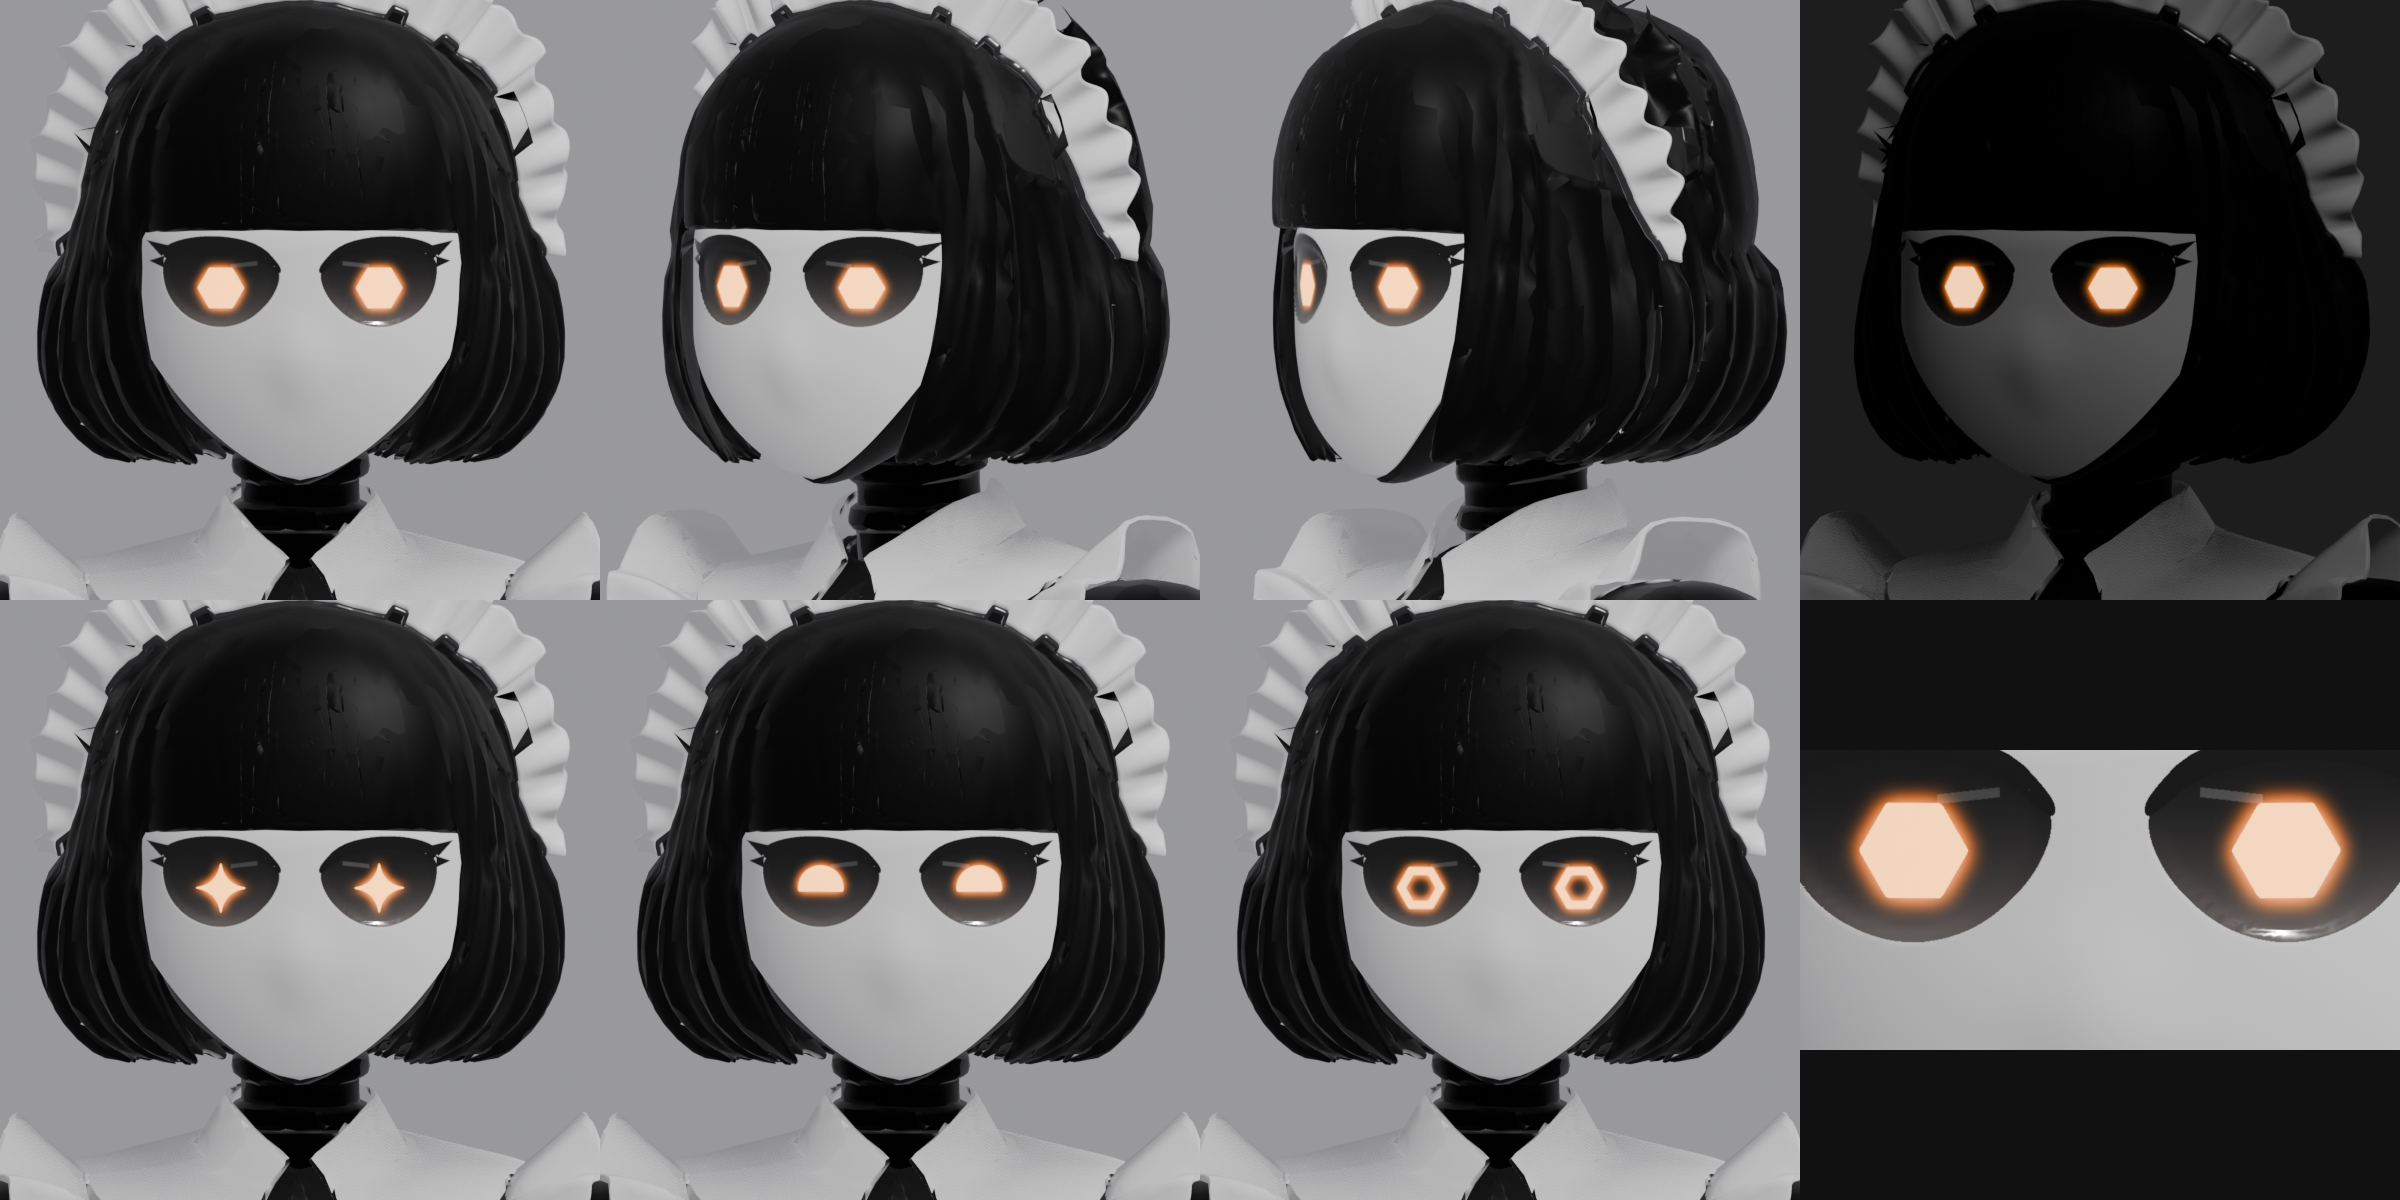
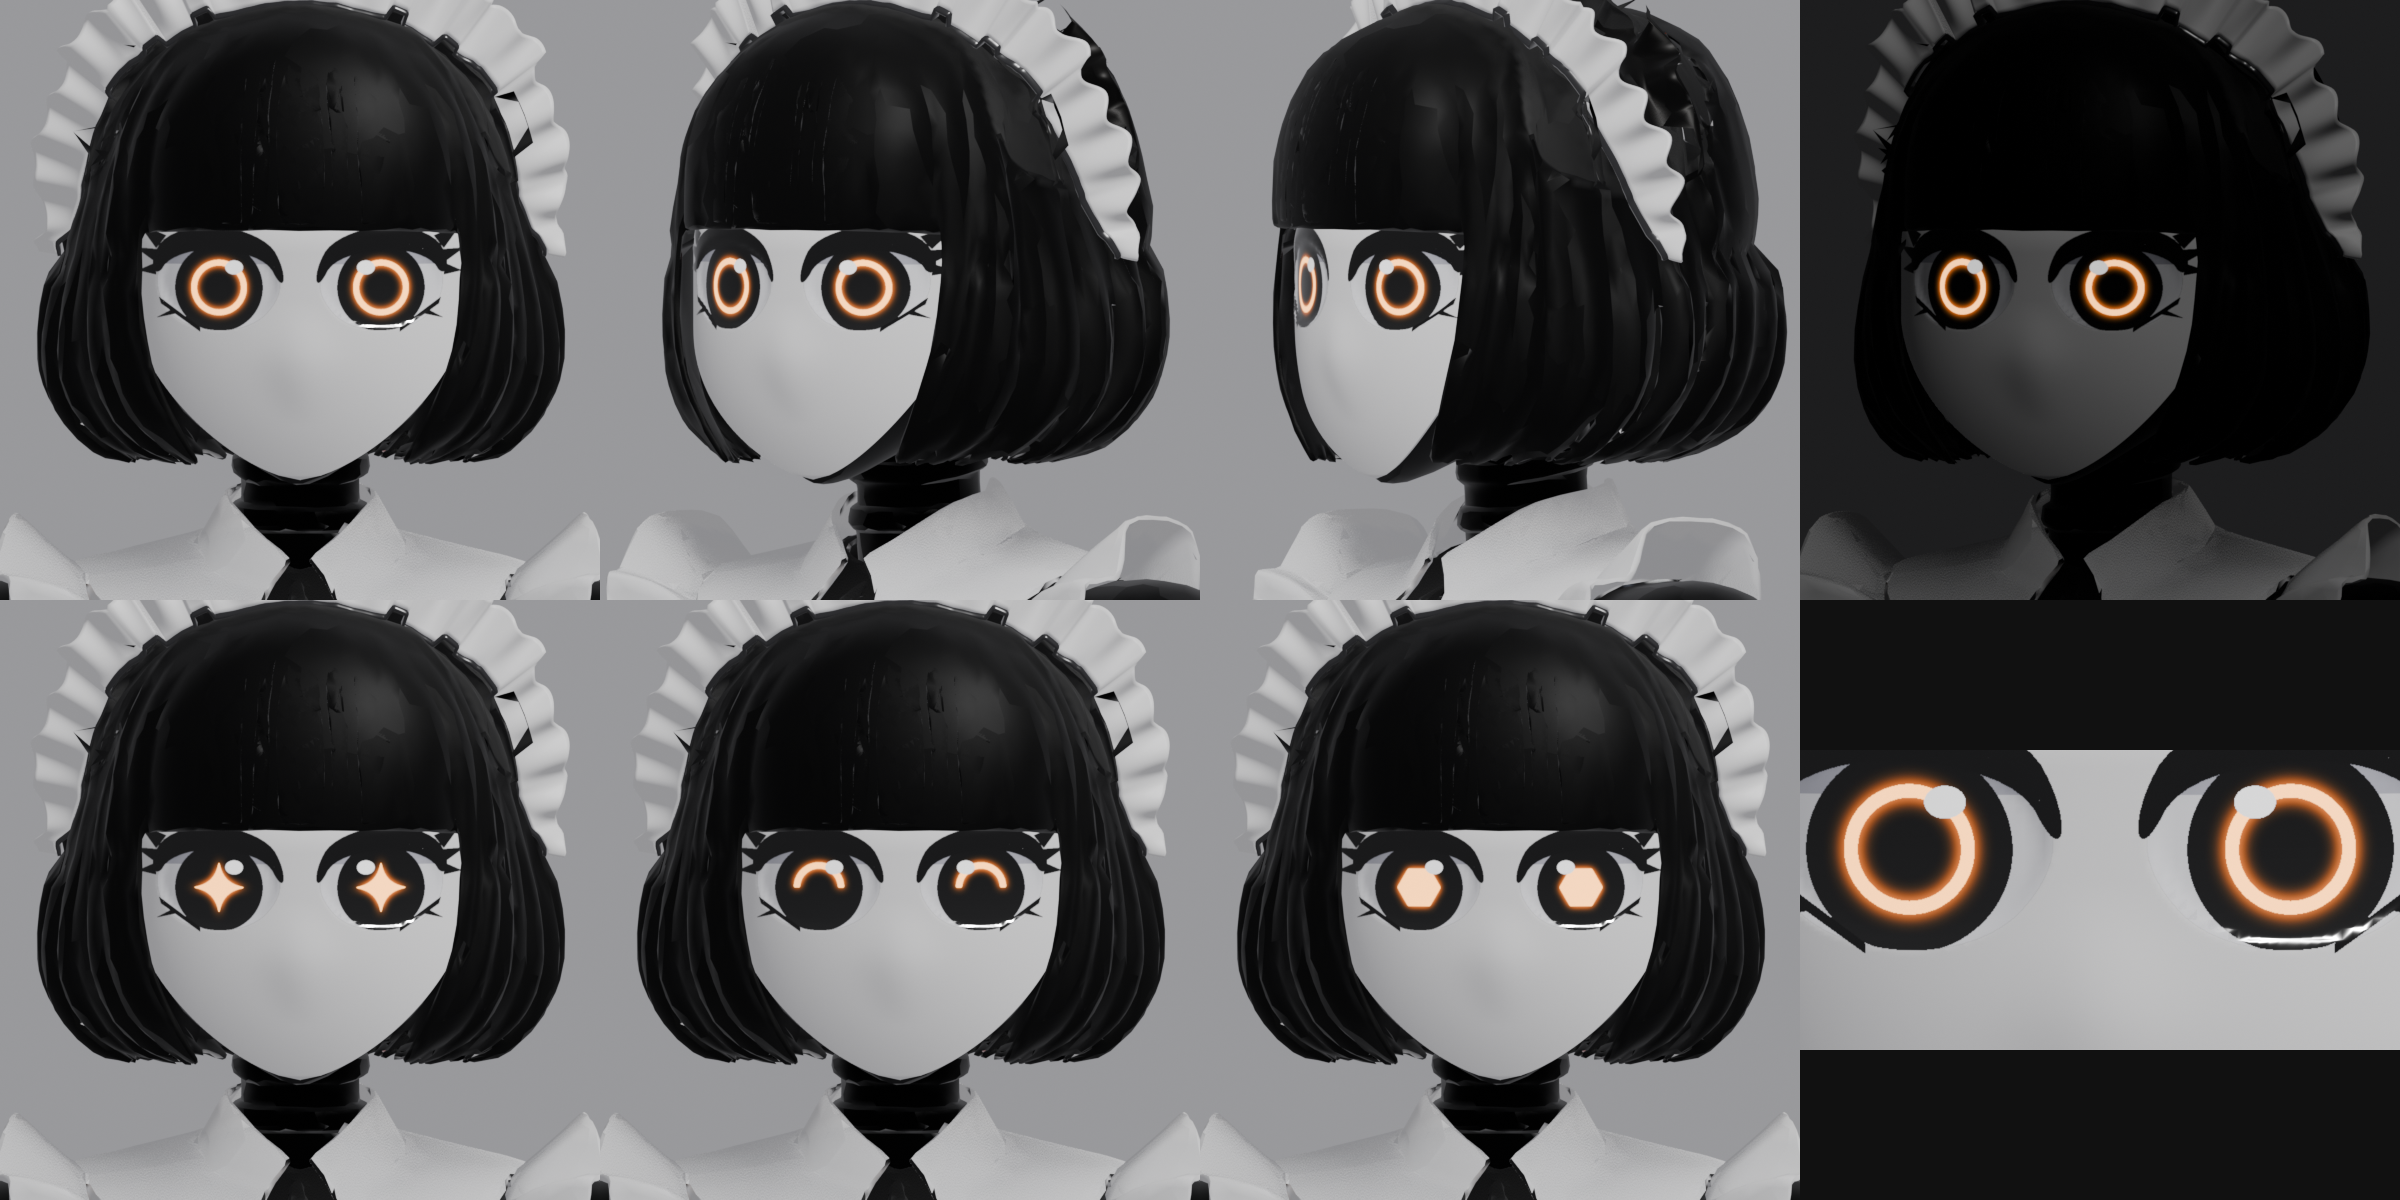
robot: c1 eyes built from the picked 2D concepts (f5 s377/s1597): huge round black glass iris, glowing orange ring, highlight, thick upper lash with outer spikes, lower lash; rounder mannequin face

diff --git a/prototypes/robot/hf/faceplate.py b/prototypes/robot/hf/faceplate.py
@@ -2,19 +2,19 @@
 # with a visible edge, slightly pointed chin, Z3-style eyes: black glass cat-eye sockets with one glowing orange shape).
 # The old face is pushed back behind the plate and painted dark as the head's under-frame; the hair and the frill
 # headband are cleaned to flat black and white (TRELLIS leaves blotches of each in the other).
-# Usage: blender -b -P faceplate.py -- k4c1-s610.glb out.glb [dot|star|happy|ring|blink]  (the frill headband is rebuilt too)
+# Usage: blender -b -P faceplate.py -- k4c1-s610.glb out.glb [ring|dot|star|happy|blink]  (the frill headband is rebuilt too)
 import bpy, bmesh, sys, numpy as np, mathutils
-args = sys.argv[sys.argv.index('--')+1:]; glb, out = args[:2]; EXPR = args[2] if len(args) > 2 else 'dot'
+args = sys.argv[sys.argv.index('--')+1:]; glb, out = args[:2]; EXPR = args[2] if len(args) > 2 else 'ring'
 
 # plate shape, in the model's metres (glTF import: Z up, face looks down -Y)
 ZB, ZM, ZT = 0.316, 0.368, 0.412     # chin tip, widest (cheeks) from here up, top (tucked under the bangs)
 WMAX, RX, DX = 0.056, 0.060, 0.040   # half width; cross-section ellipse radius and depth (sides wrap well behind the hair)
 THICK = 0.0022
-EX, EZ, SX = 0.026, 0.3812, 0.0198  # eye centres (right under the bangs) and half width; eye units are multiples of SX
+EX, EZ, SX = 0.027, 0.3808, 0.021   # eye centres (right under the bangs) and half width; eye units are multiples of SX
 SD = 0.0015                          # socket depth
 def half_w(z):
     u = np.clip((ZM - z) / (ZM - ZB), 0, 1)                   # cheeks into a V-line jaw, small rounded chin
-    return WMAX * (0.42 * (1 - u) ** 1.05 + 0.58 * np.sqrt(np.clip(1 - u * u, 0, 1)) ** 1.15)
+    return WMAX * (0.3 * (1 - u) ** 1.05 + 0.7 * np.sqrt(np.clip(1 - u * u, 0, 1)) ** 1.25)
 def bump(t): t = np.clip(t, -1, 1); return (1 - t * t) ** 2       # smooth 0..1..0 over t in [-1, 1]
 def surf(x, z):   # front surface y at (x, z), without sockets
     u = np.clip((ZM - z) / (ZM - ZB), 0, 1); a = np.clip((z - 0.392) / 0.02, 0, 1)
@@ -32,12 +32,16 @@ def chaikin(P, n):
     for _ in range(n):
         Q = np.roll(P, -1, 0); P = np.stack([0.75 * P + 0.25 * Q, 0.25 * P + 0.75 * Q], 1).reshape(-1, 2)
     return P
-EYE_POLY = chaikin(np.array([(-0.98, 0.26), (-0.62, 0.58), (0.0, 0.7), (0.55, 0.66), (0.95, 0.48), (1.02, 0.25),
-                             (0.92, -0.2), (0.6, -0.56), (0.1, -0.74), (-0.4, -0.64), (-0.78, -0.32), (-0.96, 0.0)]), 3)
-# the thick upper lash band over the lid, thickest at the outer corner, plus two short spiky lashes there
-LASH = chaikin(np.array([(-1.0, 0.2), (-0.98, 0.34), (-0.64, 0.7), (0.0, 0.84), (0.6, 0.8), (1.0, 0.64), (1.0, 0.5),
-                         (0.92, 0.42), (0.55, 0.58), (0.0, 0.62), (-0.6, 0.5), (-0.92, 0.22)]), 2)
-SPIKES = [np.array([(0.9, 0.66), (1.26, 0.74), (1.02, 0.48)]), np.array([(0.98, 0.48), (1.22, 0.4), (1.0, 0.3)])]
+EYE_POLY = chaikin(np.array([(-1.0, 0.1), (-0.8, 0.5), (-0.3, 0.72), (0.3, 0.75), (0.8, 0.56), (1.0, 0.2),
+                             (0.95, -0.2), (0.65, -0.58), (0.0, -0.74), (-0.6, -0.6), (-0.92, -0.25)]), 3)
+# lashes, after the picked 2D concepts (f5 s377 / s1597): a thick upper lash line, three spiky lashes at the outer
+# corner and two small ones on top, and a thin lower lash at the outer corner
+LASH = chaikin(np.array([(-1.04, 0.06), (-1.0, 0.34), (-0.82, 0.68), (-0.3, 0.92), (0.3, 0.96), (0.86, 0.8), (1.08, 0.42),
+                         (0.98, 0.16), (0.8, 0.44), (0.3, 0.6), (-0.3, 0.56), (-0.78, 0.38), (-0.95, 0.06)]), 2)
+SPIKES = [np.array(t) for t in (
+    [(0.84, 0.8), (1.28, 0.98), (1.0, 0.6)], [(0.98, 0.58), (1.32, 0.6), (1.04, 0.4)], [(1.02, 0.36), (1.28, 0.24), (1.0, 0.18)],
+    [(0.3, 0.92), (0.5, 1.06), (0.5, 0.88)], [(-0.2, 0.9), (-0.06, 1.04), (0.0, 0.9)],
+    [(0.3, -0.66), (0.95, -0.18), (0.92, -0.28), (0.3, -0.72)], [(0.7, -0.44), (0.98, -0.5), (0.76, -0.38)])]
 def poly_sd(P, a, b):   # signed distance to a closed polygon (negative inside)
     a = np.asarray(a, float); b = np.asarray(b, float); d = np.full(a.shape, np.inf); ins = np.zeros(a.shape, bool)
     for (x0, y0), (x1, y1) in zip(P, np.roll(P, -1, 0)):
@@ -216,20 +220,21 @@ K, N = 1.4, 512
 gb_, ga_ = np.mgrid[0:N, 0:N]; A = (ga_ / (N - 1) * 2 - 1) * K; B = (1 - gb_ / (N - 1) * 2) * K   # row 0 = top
 SDF = eye_sd(A, B); ins = SDF < 0
 img = np.zeros((N, N, 4)); emis = np.zeros((N, N, 4)); emis[..., 3] = 1
-img[ins] = [0.012, 0.012, 0.016, 1]
-gl = np.clip((0.55 - B) / 1.25, 0, 1) ** 1.3                                 # glass: dark under the lashes, lighter low down
-img[ins, :3] = (0.05 + 0.36 * gl[ins])[:, None] * np.array([1.0, 0.93, 0.9])
+img[ins] = [0.95, 0.95, 0.96, 1]                                             # white glass, mostly hidden by the iris
+img[ins & (B > 0.35), :3] = [0.72, 0.72, 0.76]                                 # lid shadow on it
+iris = ins & (np.hypot(A, B + 0.02) < 0.7)                                      # huge round black glass iris
+gl = np.clip((0.6 - B) / 1.3, 0, 1)
+img[iris, :3] = (0.02 + 0.07 * gl[iris])[:, None]
 wing = (poly_sd(LASH, A, B) < 0.005) | np.any([poly_sd(P_, A, B) < 0.005 for P_ in SPIKES], 0)
-img[wing] = [0.012, 0.012, 0.016, 1]
-glint = ins & (np.abs(B - 0.3 + 0.12 * A) < 0.035) & (A > -0.6) & (A < -0.15)   # thin reflection on the glass
-img[glint, :3] = 0.3
-u, v = A - 0.02, B + 0.05; r = np.hypot(u, v)              # the glow sits a little low, like an iris under the lid
+img[wing] = [0.01, 0.01, 0.012, 1]
+hl = ins & ~wing & (np.hypot((A + 0.24) / 0.14, (B - 0.3) / 0.11) < 1)       # white highlight
+u, v = A, B + 0.02; r = np.hypot(u, v)
 hexd = np.maximum(np.abs(v), np.abs(u) * 0.866 + np.abs(v) * 0.5)
 shape = {
-  'dot':   hexd < 0.34,
-  'star':  (np.abs(u) ** 0.5 + np.abs(v) ** 0.5) < 0.74,
-  'happy': (r < 0.38) & (v > -0.06),                                   # dome: a squinty smile
-  'ring':  (hexd < 0.35) & (hexd > 0.22),
+  'ring':  (r < 0.44) & (r > 0.35),
+  'dot':   hexd < 0.3,
+  'star':  (np.abs(u) ** 0.5 + np.abs(v) ** 0.5) < 0.72,
+  'happy': (r < 0.4) & (r > 0.3) & (v > 0.0),                                  # an arch: a smile
   'blink': (np.abs(v + 0.05 * (u / 0.5) ** 2) < 0.055) & (np.abs(u) < 0.5),
 }[EXPR]
 def blur(m, s_):   # separable box blur x3 ~ gaussian
@@ -239,12 +244,12 @@ def blur(m, s_):   # separable box blur x3 ~ gaussian
             c = np.cumsum(np.pad(m, [(k + 1, k) if i == ax else (0, 0) for i in range(2)]), axis=ax)
             m = (np.take(c, range(2 * k + 1, c.shape[ax]), axis=ax) - np.take(c, range(0, c.shape[ax] - 2 * k - 1), axis=ax)) / (2 * k + 1)
     return m
-halo = np.clip(blur(shape, 14) * 1.8, 0, 1) * ins
-core = blur(shape, 2) > 0.5
+halo = np.clip(blur(shape, 10) * 1.6, 0, 1) * iris
+core = (blur(shape, 2) > 0.5) & iris & ~hl
 ORANGE = np.array([1.0, 0.45, 0.08]); HOT = np.array([1.0, 0.68, 0.36])
-img[ins, :3] += (halo[ins, None] * 0.75) * ORANGE
-img[core, :3] = HOT; img[core, 3] = 1
-emis[..., :3] = halo[..., None] * 0.7 * ORANGE; emis[core, :3] = HOT
+img[iris, :3] += (halo[iris, None] * 0.6) * ORANGE
+img[core, :3] = HOT; img[core, 3] = 1; img[hl, :3] = 1
+emis[..., :3] = halo[..., None] * 0.7 * ORANGE; emis[core, :3] = HOT; emis[hl, :3] = 0.5
 img[..., :3] = np.clip(img[..., :3], 0, 1)
 def mk(name, a):
     im = bpy.data.images.new(name, N, N, alpha=True); im.pixels = a[::-1].ravel().tolist(); im.pack(); return im
